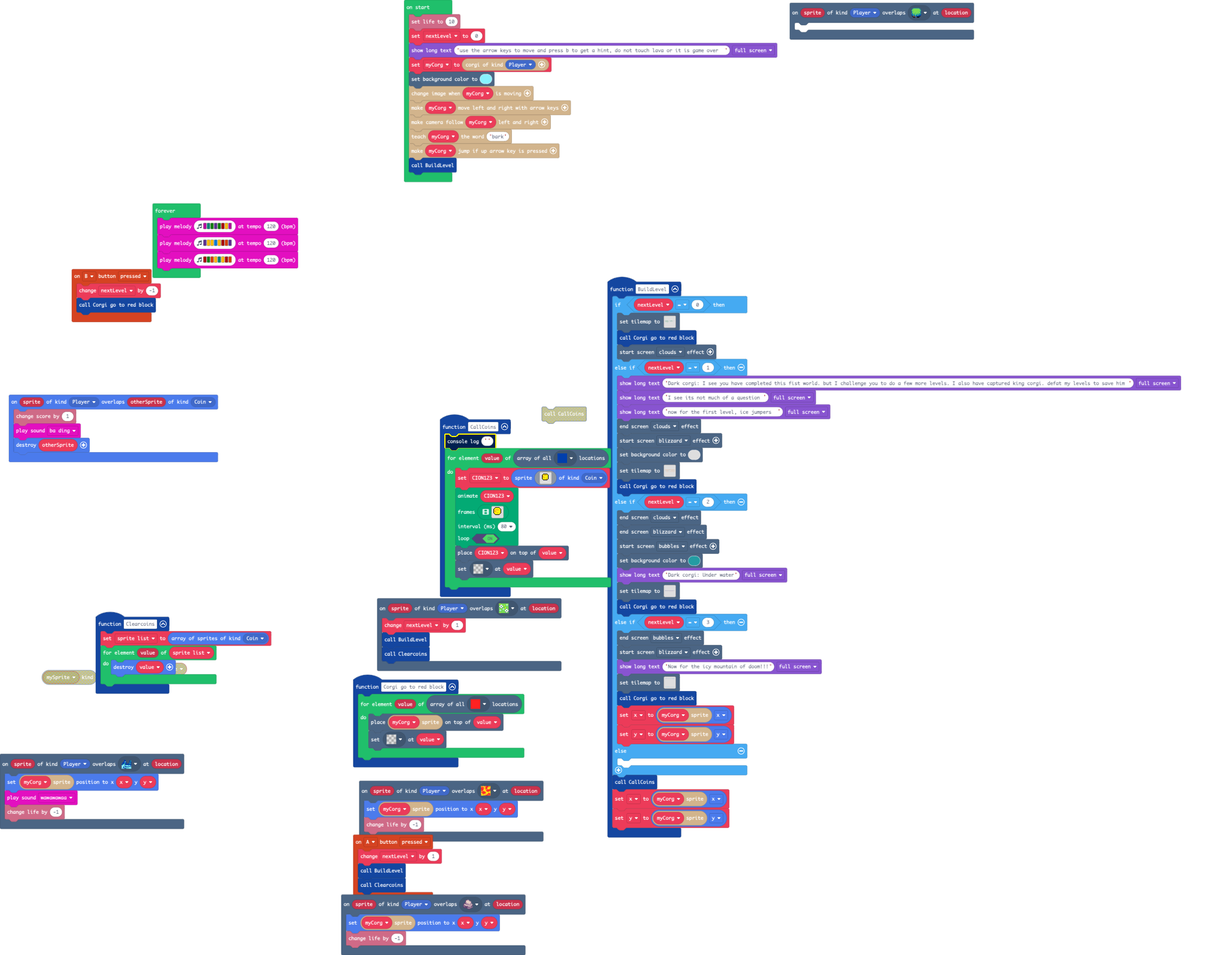
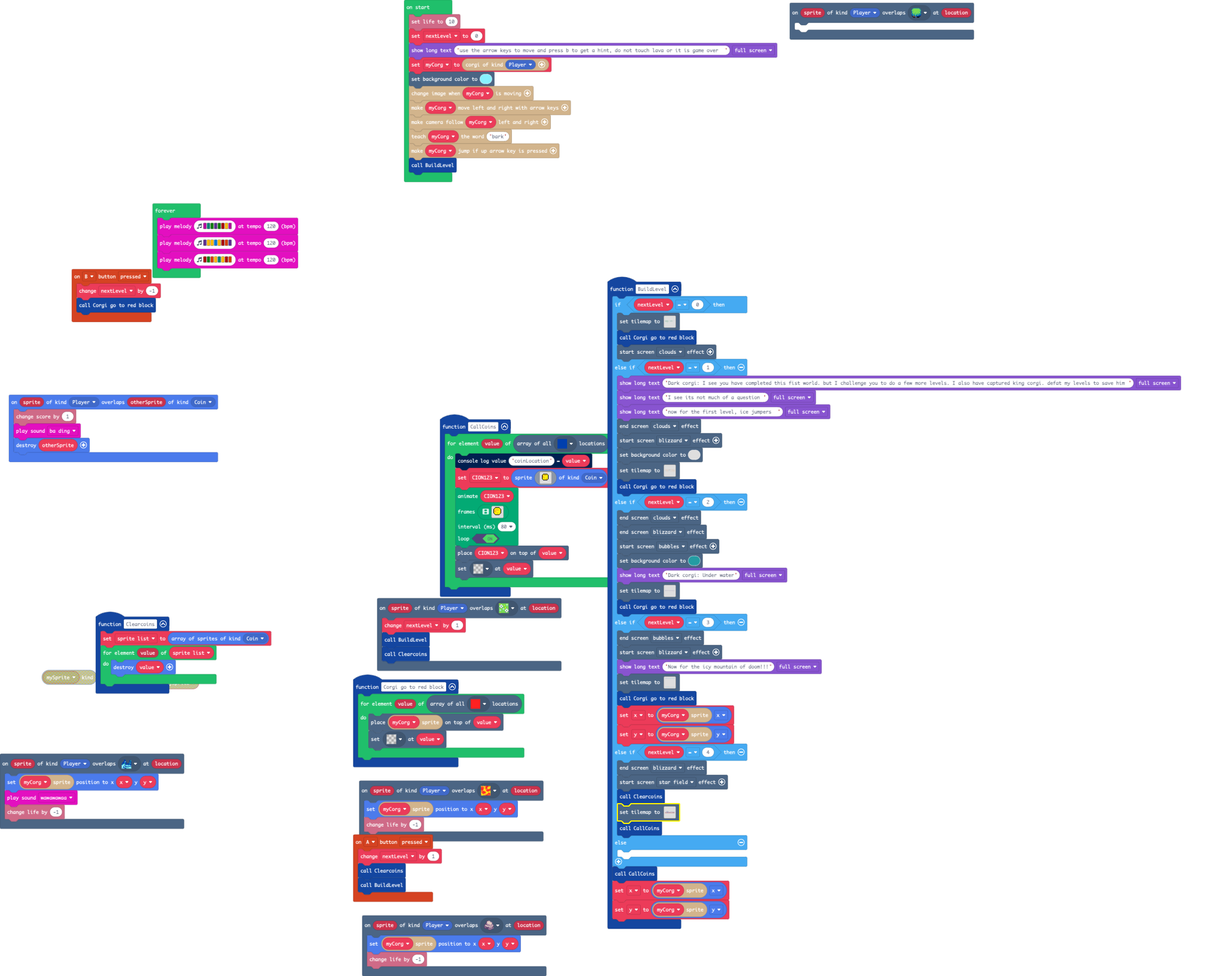
Update main.blocks, main.ts, tilemap.g.jres, tilemap.g.ts

diff --git a/main.ts b/main.ts
@@ -15,8 +15,8 @@ scene.onOverlapTile(SpriteKind.Player, sprites.builtin.forestTiles0, function (s
 })
 controller.A.onEvent(ControllerButtonEvent.Pressed, function () {
     nextLevel += 1
-    BuildLevel()
     Clearcoins()
+    BuildLevel()
 })
 scene.onOverlapTile(SpriteKind.Player, myTiles.tile8, function (sprite, location) {
     myCorg.sprite.setPosition(x, y)
@@ -49,12 +49,12 @@ function BuildLevel () {
         effects.bubbles.endScreenEffect()
         effects.blizzard.startScreenEffect()
         game.showLongText("Now for the icy mountain of doom!!!", DialogLayout.Full)
-        tiles.setTilemap(tiles.createTilemap(hex`5000500004000000000000000000000000000000000000000000000000000000000000000000000000000000000000000000000000000000000000000000000000000000000000000000000000000000000000000000000000000000000005000000000000000000000000000000000000000000000000000500000000000000000000000000000000000002000000000000000000000000000000000000000000000000000000000000000005000000050000000000000000000000000505000000000000000000020000000000000000050000000000000000000000000000000000000000000200000000000000000000000002000000000005000000000000000005000000000000000002020200000000000000000000000000000000000002000000000000000000000000000000020000000000000000000000000202020202020200000000000200000000000000000200000000000000000200000000000000000000000000000000000000000000000000000000000000000000000000000000000000000000000000000000000000000303030303030303030303030303030303030303030303030303030303030303030303030303030303030303030303030303030303030303030303030303030303030303030303030303030303030300000000000000000000000000000000000000000000000000000000000000000000000000000000000000000000000000000000000000000000000303000303030303030303030303030303000000000000000000000000000000000000000000000000000000000000000000000000000000000000000000000000000000000000000000000000000000000000000000000000000000000000000000000000000000000000020000000000000000000000000000000000000000000000000000000000000000000000000000000000000000000000000000000000000000000000000000000000000000000000000000000000000000000000000000000000000000000000000000000000000000000000000000000000000000000000000000000000000000000000000000000000000000000000000000000000000000000200000000000000000000000000000000000000000000000000000000000000000000000000000000000000000000000000000000000000000000000000000000000000000000000000000000000000000000000000000000000000000000000000000000000000000000000000000000000000000000000000000000000000000000000000000000000000000000000000000000000000000000000000000000000000000000000000000000000000000000000000000000000000000000000000000000000000000000000000000000000000000000000000000000000000000000000000000000000000000000000000000000000200000000000000000000000000000000000000000000000000000000000000000000000000000000000000000000000000000000000000000000000000000000000000000000000000000000000000000000000000000000000000000000000000000000000000000000000000000000000000000000000000000000000000000000000000000000000000000000000000000000000000000000000000000000000000000000000000000000000000000000000000000000000000000000000000000000000000000000000000000000000000000000000000000000000000000000000000000000000200000000000000000000000000000000000000000000000000000000000000000000000000000000000000000000000000000000000000000000000000000000000000000000000000000000000000000000000000000000000000000000000000000000000000000000000000000000000000000000000000000000000000000000000000000000000000000000000000000000000000000000000000000000000000000000000000000000000000000000000000000000000000000000000000000000000000000000000000000000000000000000000000000000000000000000000000000000000000000000000000000000020000000000000000000000000000000000000000000000000000000000000000000000000000000000000000000000000000000000000000000000000000000000000000000000000000000000000000000000000000000000000000000000000000000000000000000000000000000000000000000000000000000000000000000000000000000000000000000000000000000000000000000002000000000000000000000000000000000000000000000000000000000000000000000000000000000000000000000000000000000000000000000000000000000000000000000000000000000000000000000000000000000000000000000000000000000000000000000000000000000000000000000000000000000000000000000000000000000000000000000000000000000000000000000000000000000000000000000000000000000000000000000000000000000000000000000000000000000000000000000000000000000000000000000000000000000000000000000000000000000000000000000000000000000000000000000000000000000000000000000000000000000000000000000000000000000000000000000000000000000000000000000000000000000000000000000000000000000000000000000002000000000000000000000000000000000000000000000000000000000000000000000000000000000000000000000000000000000000000000000000000000000000000000000000000000000000000000000000000000000000000000000000000000000000000000000000000000000000000000000000000000000000000000000000000000000000000000000000000000000000000000000000000000000000000000000000000000000000000000000000000000000000000000000000000000000000000000000000000000000000000000000000000000000000000000000000000000000000000002000000000000000000000000000000000000000000000000000000000000000000000000000000000000000000000000000000000000000000000000000000000000000000000000000000000000000000000000000000000000000000000000000000000000000000000000000000000000000000000000000000000000000000000000000000000000000000000000000000000000000000000000000000000000000000000000000000000000000000000000000000000000000000000000000000000000000000000000000000000000000000000000000000000000000000000000000000000000000000000000000000000000000000000000000000000000000000000000000000000000000000000000000000000000000000000000000000000000000000000000000000000000000000000000000000000000000000000000000000000000000000000000000000000000000000000000000000000000000000000000000000000000000000000000000000000000000000000000000000000000000000000000000000000000000000000000000000000000000000000000000000000000000000000000000000000000000000000000000000000000000000000000000000000000000000000000000000000000000000000000020000000000000000000000000000000000000000000000000000000000000000000000000000000000000000000000000000000000000000000000000000000000000000000000000000000000000000000000000000000000000000000000000000000000000000000000000000000000000000000000000000000000000000000000000000000000000000000000000000000000000000000000000000000000000000000000000000000000000000000000000000000000000000000000000000000000000000000000000000000000000000000000000000000000000000000000000000000000000000000000000000000000000000000000000000000000000000000000000000000000000000000000000000000000000000000000000000000000000000000000000000000000000000000000000000000000000000000000000200000000000000000000000000000000000000000000000000000000000000000000000000000000000000000000000000000000000000000000000000000000000000000000000000000000000000000000000000000000000000000000000000000000000000000000000000000000000000000000000000000000000000000000000000000000000000000000000000000000000000000000000000000000000000000000000200000000000000000000000000000000000000000000000000000000000000000000000000000000000000000000000000000000000000000000000000000000000000000000000000000000000000000000000000000000000000000000000000000000000000000000000000000000000000000000000000000000000000000000000000000000000000000000000000000000000000000000000000000000000000000000000200000000000000000000000000000000000000000000000000000000000000000000000000000000000000000000000000000000000000000000000000000000000000000000000000000000000000000000000000000000000000000000000000000000000000000000000000000000000000000000000000000000000000000000000000000000000000000000000000000000000000000000000000000000000000000000000000000000000000000000000000000000000000000000000000000000000000000000000000000000000000000000000000000000000000000000000000000000000000000000000000000000000000000000000000000000000000000000000000000000000000000000000000000000000000000000000000000000000000000000000000000000000000000000000000000000000000000000000000000002000000000000000000000000000000000000000000000000000000000000000000000000000000000000000000000000000000000000000000000000000000000000000000000000000000000000000000000000000000000000000000000000000000000000000000000000000000000000000000000000000000000000000000000000000000000000000000000000000000000000020000000000000000000000000000000000000000000000000000000000000000000000000000000000000000000000000000000000000000000000000000000000000000000000020000000000000000000000000000000000000000000000000000000000000000000000000000000000000000000000000000000000000000000000000000000000000000000000000000000000000000000000000000000000000000000000000000000000000000000000000000000000000000000000000000000000000000000000000000000000000000000000000000000000000000000000000000000000000000000000000000000000000000000000000000000000000000000000000000000000000000000000000000000000000000000000000000000000000000000000000002000000000000000000000000000000000000000000000000000000000000000000000000000000000000000000000000000000000000000000000000000000000000000000000000000000000000000000000000000000000000000000000000000000000000000000000000000000000000000000000000000000000000000000000000000000000000000000000000000000000000000000000000000000000000000000000000000000000000000000000000000000000000000000000000000000000000000000000000000000000000000000000000000000000000000000000000000000000000000000000000000000000000000000000000000000000000000000000000000000000000000000000000000000000000000000000000000000000000000000000000000000000000000000000000000000000000000000000000000000000000000000000000000000000000000000000000000000000000000000000000000000000000000000000000000000000000000000000000000000000000000000000000000000000000000000000000000000000000000000000000000000000000000000000000000000000000000000000000000000000000000000000000000000000000000000000000000000000000000000000000000000000002000000000000000000000000000000000000000000000000000000000000000000000000000000000000000000000000000000000000000000000000000000000000000000000000000000000000000000000000000000000000000000000000000000000000000000000000000000000000000000000000000000000000000000000000000000000000000000000000000000000000000000000000000000000000000000000000000000000000000000000000000000000000000000000000000000000000000000000000000000000000000000000000000000000000000000000000000000000000000000000000000000000002000000000000000000000000000000000000000000000000000000000000000000000000000000000000000000000000000000000000000000000000000000000000000000000000000000000000000000000000000000000000000000000000000000000000000000000000000000000000000000000000000000000000000000000000000000000000000000000000000000000000000000000000000000000000000000020000000000000000000000000000000000000000000000000000000000000000000000000000000000000000000000000000000000000000000000000000000000000000000000000000000000000000000000000000000000000000000000000000000000000000000000000000000000000000000000000000000000000000000000000000000000000000000000000000000000000000000000000000000000000000000000000000000000000000000000000000000000000000000000000000000000000000000000000000000000000000000000000000000000000000000000000000000000000000000000000000000000000200000000000000000000000000000000000000000000000000000000000000000000000000000000000000000000000000000000000000000000000000000000000000000000000000000000000000000000000000000000000000000000000000000000000000000000000000000000000000000000000000000000000000000000000000000000000000000000000000000000000000000000000002000002000000000000000000000000000000000000000000000000000000000000000000000000000000000000000000000000000000000000000000000000000000000000000000000000000000000000000200000000000000000000000000000000000000000000000000000000000000000000000000000000000000000000000000000000000000000000000000000000000000000000000000020000000000020000000000000000000000000000000000000000000000000000000000000000000000000000000000000000000000000000000000000000000000000000000000000000000000000002000000000002000000000000000000000000000000000000000000000000000000000000000000000000000000000000000000000000000000000000000000000000000000000000000000000000000200000000000200000000000000000000000000000000000000000000000000000000000000000000000000000000000000000000000000000000000000000000000000000000000000000002000000020000000002020000000000000000000000000000000000000000000000000000000000000000000000000000000000000000000000000000000000000000000000000000000002000000000200000002000000000202000000000000000000000000000000000000000000000000000000000000000000000000000000000000000000000000000000000000000000000002000000000200000000020000000200000000020200000000000000000000000000000000000000000000000000000000000000000000000000000000000000000000000000000000000002000000000200000000020000000002000000020000000002020000000000000000000000000000000000000000000000000000000000000000000000000000000000000000000000000000000001010000000000020000000002000000000200000002000000000202000000000000000000000000000000000000000000000000000000000000000000000000000000000000000000000000000000010100000000000002000000000202000000020000000200000000020200000000000000000000000000000000000000000000000000000000000000000000000000000000000000000000000000000100010003030303030203030303030203030303030303030303030303020303030303030303030303030303030303030303030303030303030303030303030303030303030303030303030303030303`, img`
+        tiles.setTilemap(tiles.createTilemap(hex`5000500004000000000000000000000000000000000000000000000000000000000000000000000000000000000000000000000000000000000000050000000000000000000000000000000000000000000000000000000000000000000005000000000000000000000000000000000000000000000000000500000000000000000000000000050000000002000000000000000000000000000000000000000000000000000000000000000005000000050000000000000500000000000505000000000000000000020000000000000000050000000002000000000000000000000505000000000200000000000000050505050602000000000005000000000000000005000000020000000002020200000000050000000000000000050000000002000000000000000000000000000000020000000000000000000000000202020202020200000000000200000000010000000200000000000000000200000000000002000000000000000002000000000000000000000000000000000000000000000000000000000000000000000000000000020303030303030303030303030303030303030303030303030303030303030303030303030303030303030303030303030303030303030303030303030303030303030303030303030303030303030302020202020202020202020202020202020202020202020202020202020202020202020202020202020202020202020202020202020202020202020202020202020202020202020202020202020202020000000000000000000000000000000000000000000202020200000000000000000000020202020202020200000202020202020200000000000000000000000000000000000000000000000000000000000000000000020000000000000000000000000000000000000000000000000000000000000000000000000000000000000000000000000000000000000000000000000000000000000000000000000000000000000000000000000000000000000000000000000000000000000000000000000000000000000000000000000000000000000000000000000000000000000000000000000000000000000000000200000000000000000000000000000000000000000000000000000000000000000000000000000000000000000000000000000000000000000000000000000000000000000000000000000000000000000000000000000000000000000000000000000000000000000000000000000000000000000000000000000000000000000000000000000000000000000000000000000000000000000000000000000000000000000000000000000000000000000000000000000000000000000000000000000000000000000000000000000000000000000000000000000000000000000000000000000000000000000000000000000000000200000000000000000000000000000000000000000000000000000000000000000000000000000000000000000000000000000000000000000000000000000000000000000000000000000000000000000000000000000000000000000000000000000000000000000000000000000000000000000000000000000000000000000000000000000000000000000000000000000000000000000000000000000000000000000000000000000000000000000000000000000000000000000000000000000000000000000000000000000000000000000000000000000000000000000000000000000000000200000000000000000000000000000000000000000000000000000000000000000000000000000000000000000000000000000000000000000000000000000000000000000000000000000000000000000000000000000000000000000000000000000000000000000000000000000000000000000000000000000000000000000000000000000000000000000000000000000000000000000000000000000000000000000000000000000000000000000000000000000000000000000000000000000000000000000000000000000000000000000000000000000000000000000000000000000000000000000000000000000000020000000000000000000000000000000000000000000000000000000000000000000000000000000000000000000000000000000000000000000000000000000000000000000000000000000000000000000000000000000000000000000000000000000000000000000000000000000000000000000000000000000000000000000000000000000000000000000000000000000000000000000002000000000000000000000000000000000000000000000000000000000000000000000000000000000000000000000000000000000000000000000000000000000000000000000000000000000000000000000000000000000000000000000000000000000000000000000000000000000000000000000000000000000000000000000000000000000000000000000000000000000000000000000000000000000000000000000000000000000000000000000000000000000000000000000000000000000000000000000000000000000000000000000000000000000000000000000000000000000000000000000000000000000000000000000000000000000000000000000000000000000000000000000000000000000000000000000000000000000000000000000000000000000000000000000000000000000000000000000002000000000000000000000000000000000000000000000000000000000000000000000000000000000000000000000000000000000000000000000000000000000000000000000000000000000000000000000000000000000000000000000000000000000000000000000000000000000000000000000000000000000000000000000000000000000000000000000000000000000000000000000000000000000000000000000000000000000000000000000000000000000000000000000000000000000000000000000000000000000000000000000000000000000000000000000000000000000000000002000000000000000000000000000000000000000000000000000000000000000000000000000000000000000000000000000000000000000000000000000000000000000000000000000000000000000000000000000000000000000000000000000000000000000000000000000000000000000000000000000000000000000000000000000000000000000000000000000000000000000000000000000000000000000000000000000000000000000000000000000000000000000000000000000000000000000000000000000000000000000000000000000000000000000000000000000000000000000000000000000000000000000000000000000000000000000000000000000000000000000000000000000000000000000000000000000000000000000000000000000000000000000000000000000000000000000000000000000000000000000000000000000000000000000000000000000000000000000000000000000000000000000000000000000000000000000000000000000000000000000000000000000000000000000000000000000000000000000000000000000000000000000000000000000000000000000000000000000000000000000000000000000000000000000000000000000000000000000000000000020000000000000000000000000000000000000000000000000000000000000000000000000000000000000000000000000000000000000000000000000000000000000000000000000000000000000000000000000000000000000000000000000000000000000000000000000000000000000000000000000000000000000000000000000000000000000000000000000000000000000000000000000000000000000000000000000000000000000000000000000000000000000000000000000000000000000000000000000000000000000000000000000000000000000000000000000000000000000000000000000000000000000000000000000000000000000000000000000000000000000000000000000000000000000000000000000000000000000000000000000000000000000000000000000000000000000000000000000200000000000000000000000000000000000000000000000000000000000000000000000000000000000000000000000000000000000000000000000000000000000000000000000000000000000000000000000000000000000000000000000000000000000000000000000000000000000000000000000000000000000000000000000000000000000000000000000000000000000000000000000000000000000000000000000200000000000000000000000000000000000000000000000000000000000000000000000000000000000000000000000000000000000000000000000000000000000000000000000000000000000000000000000000000000000000000000000000000000000000000000000000000000000000000000000000000000000000000000000000000000000000000000000000000000000000000000000000000000000000000000000200000000000000000000000000000000000000000000000000000000000000000000000000000000000000000000000000000000000000000000000000000000000000000000000000000000000000000000000000000000000000000000000000000000000000000000000000000000000000000000000000000000000000000000000000000000000000000000000000000000000000000000000000000000000000000000000000000000000000000000000000000000000000000000000000000000000000000000000000000000000000000000000000000000000000000000000000000000000000000000000000000000000000000000000000000000000000000000000000000000000000000000000000000000000000000000000000000000000000000000000000000000000000000000000000000000000000000000000000000002000000000000000000000000000000000000000000000000000000000000000000000000000000000000000000000000000000000000000000000000000000000000000000000000000000000000000000000000000000000000000000000000000000000000000000000000000000000000000000000000000000000000000000000000000000000000000000000000000000000000020000000000000000000000000000000000000000000000000000000000000000000000000000000000000000000000000000000000000000000000000000000000000000000000020000000000000000000000000000000000000000000000000000000000000000000000000000000000000000000000000000000000000000000000000000000000000000000000000000000000000000000000000000000000000000000000000000000000000000000000000000000000000000000000000000000000000000000000000000000000000000000000000000000000000000000000000000000000000000000000000000000000000000000000000000000000000000000000000000000000000000000000000000000000000000000000000000000000000000000000000002000000000000000000000000000000000000000000000000000000000000000000000000000000000000000000000000000000000000000000000000000000000000000000000000000000000000000000000000000000000000000000000000000000000000000000000000000000000000000000000000000000000000000000000000000000000000000000000000000000000000000000000000000000000000000000000000000000000000000000000000000000000000000000000000000000000000000000000000000000000000000000000000000000000000000000000000000000000000000000000000000000000000000000000000000000000000000000000000000000000000000000000000000000000000000000000000000000000000000000000000000000000000000000000000000000000000000000000000000000000000000000000000000000000000000000000000000000000000000000000000000000000000000000000000000000000000000000000000000000000000000000000000000000000000000000000000000000000000000000000000000000000000000000000000000000000000000000000000000000000000000000000000000000000000000000000000000000000000000000000000000000000002000000000000000000000000000000000000000000000000000000000000000000000000000000000000000000000000000000000000000000000000000000000000000000000000000000000000000000000000000000000000000000000000000000000000000000000000000000000000000000000000000000000000000000000000000000000000000000000000000000000000000000000000000000000000000000000000000000000000000000000000000000000000000000000000000000000000000000000000000000000000000000000000000000000000000000000000000000000000000000000000000000000002000000000000000000000000000000000000000000000000000000000000000000000000000000000000000000000000000000000000000000000000000000000000000000000000000000000000000000000000000000000000000000000000000000000000000000000000000000000000000000000000000000000000000000000000000000000000000000000000000000000000000000000000000000000000000000020000000000000000000000000000000000000000000000000000000000000000000000000000000000000000000000000000000000000000000000000000000000000000000000000000000000000000000000000000000000000000000000000000000000000000000000000000000000000000000000000000000000000000000000000000000000000000000000000000000000000000000000000000000000000000000000000000000000000000000000000000000000000000000000000000000000000000000000000000000000000000000000000000000000000000000000000000000000000000000000000000000000000200000000000000000000000000000000000000000000000000000000000000000000000000000000000000000000000000000000000000000000000000000000000000000000000000000000000000000000000000000000000000000000000000000000000000000000000000000000000000000000000000000000000000000000000000000000000000000000000000000000000000000000000002000002000000000000000000000000000000000000000000000000000000000000000000000000000000000000000000000000000000000000000000000000000000000000000000000000000000000000000200000000000000000000000000000000000000000000000000000000000000000000000000000000000000000000000000000000000000000000000000000000000000000000000000020000000000020000000000000000000000000000000000000000000000000000000000000000000000000000000000000000000000000000000000000000000000000000000000000000000000000002000000000002000000000000000000000000000000000000000000000000000000000000000000000000000000000000000000000000000000000000000000000000000000000000000000000000000200000000000200000000000000000000000000000000000000000000000000000000000000000000000000000000000000000000000000000000000000000000000000000000000000000002000000020000000002020000000000000000000000000000000000000000000000000000000000000000000000000000000000000000000000000000000000000000000000000000000002000000000200000002000000000202000000000000000000000000000000000000000000000000000000000000000000000000000000000000000000000000000000000000000000000002000000000200000000020000000200000000020200000000000000000000000000000000000000000000000000000000000000000000000000000000000000000000000000000000000002000000000200000000020000000002000000020000000002020000000000000000000000000000000000000000000000000000000000000000000000000000000000000000000000000000000001010000000000020000000002000000000200000002000000000202000000000000000000000000000000000000000000000000000000000000000000000000000000000000000000000000000000010100000000000002000000000202000000020000000200000000020200000000000000000000000000000000000000000000000000000000000000000000000000000000000000000000000000000100010003030303030203030303030203030303030303030303030303020303030303030303030303030303030303030303030303030303030303030303030303030303030303030303030303030303`, img`
             ................................................................................
             .......................................................2........................
-            ....................................2..............................2............
-            2.......................222..................2...............22...........222222
-            2.....2........2........2.......................................................
+            ....................................2.............2................2............
+            2..................2....222..................2...............22...........222222
+            2.....2....2...2........2......2........2.......................................
             ................................................................................
             ................................................................................
             ................................................................................
@@ -130,10 +130,33 @@ function BuildLevel () {
             ..22.....2......................................................................
             .22......2......................................................................
             22..............................................................................
-            `, [myTiles.transparency16,myTiles.tile3,myTiles.tile4,myTiles.tile8,myTiles.tile5,myTiles.tile6], TileScale.Sixteen))
+            `, [myTiles.transparency16,myTiles.tile3,myTiles.tile4,myTiles.tile8,myTiles.tile5,myTiles.tile6,sprites.castle.tileGrass2], TileScale.Sixteen))
         Corgi_go_to_red_block()
         x = myCorg.sprite.x
         y = myCorg.sprite.y
+    } else if (nextLevel == 4) {
+        effects.blizzard.endScreenEffect()
+        effects.starField.startScreenEffect()
+        Clearcoins()
+        tiles.setTilemap(tiles.createTilemap(hex`500010000000000000000000000000000000000000010101010101000000000000000000000000000000000000000000000000000000000000000000000000000000000000000000000000000000000000000000000000000000000000000000000001010202020202020201010000000000000000000000000000000000000000000000000000000000000000000000000000000000000000000000000000000000000000000000000000000000000001010202020101010101010202010000000000000000000000000000000000000000000000000000000000000000000000000000000000000000000000000000000000000000000000000000000000010202000101010000000001000002010100000000000000000000000000000000000000000000000000000000000000000000000000000000000000000000000000000000000000000000000000000102020000000000000000000100000202020200000000000000000000000000000000000000000000010101010101010101010000000000000000000000000000000000000000000000000000000001020200000000000000000000010000000002020100000000000000000000000000000000000101010102020202020202020202010000000000000000000000000000010101000000000000000001010202000000000000000000000001000000000202020100000000000000000000000001010101020202020000000000000000000202010000000000000000010101010100020202000000000000010202020000000000000000000000000100000000000000020100000000000000000001010202020202000000000000000000000000000202010101010101010102020202020202000000000000000202020000000000000000010101010101010101000000000002020101000000000101010202000000000000000000000000000000000000000002020202020202020202000000000000000000000101020000000000000000010101010101000101010101010101000002020201000101020202020200000000000000000000000000000000000000000000000000000000000000000000000000030001020202000001010101010101010101010101010101000000010101010000020201010202000000000000000000000000000000000000000000000000010101010101010101010101010101010101010202020000010101010000000101010101010101010101010101000001010000020000020101010101010101010101010101010101010101010101010101010101010101010101010101010101010202020202020202020202020202020201010101010202020202020202020202020202020202020202020202020202020202020202020202020202020202020202010101010102020202020202020202020202020202020202020202020202020202020202020202020202020202020202020202020202020202020202020202020202020202020202020202020202020202020202020202020202020202020202020202020202020202020202020202020202020202020202020202020202020202020202020202020202020202020202020202020202020202020202020202020202020202020202020202020202020202020202020202020202020202020202020202020202020202020202020202020202020202020202020202020202020202020202020202020202020202020202020202020202020202020202020202`, img`
+            ................................................................................
+            ................2222222.........................................................
+            ..............222......22.......................................................
+            ............222..........2......................................................
+            ...........22............2222...................................................
+            ..........22...............22......................2222222222...................
+            .........222...............222.................2222.........22...............222
+            .......222.................................22222.............22........2222222..
+            .....2222.....................22.........222...................2222222222.......
+            .....22........................222....22222.........................2...........
+            ...2222..........................22..222........................................
+            ..222...........................................................................
+            2222............................................................................
+            ................................................................................
+            ................................................................................
+            ................................................................................
+            `, [myTiles.transparency16,myTiles.tile6,myTiles.tile9,myTiles.tile5], TileScale.Sixteen))
+        CallCoins()
     } else {
     	
     }
@@ -167,8 +190,8 @@ scene.onOverlapTile(SpriteKind.Player, sprites.castle.tileGrass2, function (spri
     Clearcoins()
 })
 function CallCoins () {
-    console.log("")
     for (let value of tiles.getTilesByType(myTiles.tile6)) {
+        console.logValue("coinLocation", value)
         CION123 = sprites.create(img`
             . . . . . . . . . . . . . . . . 
             . . . . f f f f f f f . . . . . 

diff --git a/tilemap.g.ts b/tilemap.g.ts
@@ -18,6 +18,8 @@ namespace myTiles {
     export const tile7 = image.ofBuffer(hex``);
     //% fixedInstance jres blockIdentity=images._tile
     export const tile8 = image.ofBuffer(hex``);
+    //% fixedInstance jres blockIdentity=images._tile
+    export const tile9 = image.ofBuffer(hex``);
 
     helpers.registerTilemapFactory(function(name: string) {
         switch(helpers.stringTrim(name)) {
